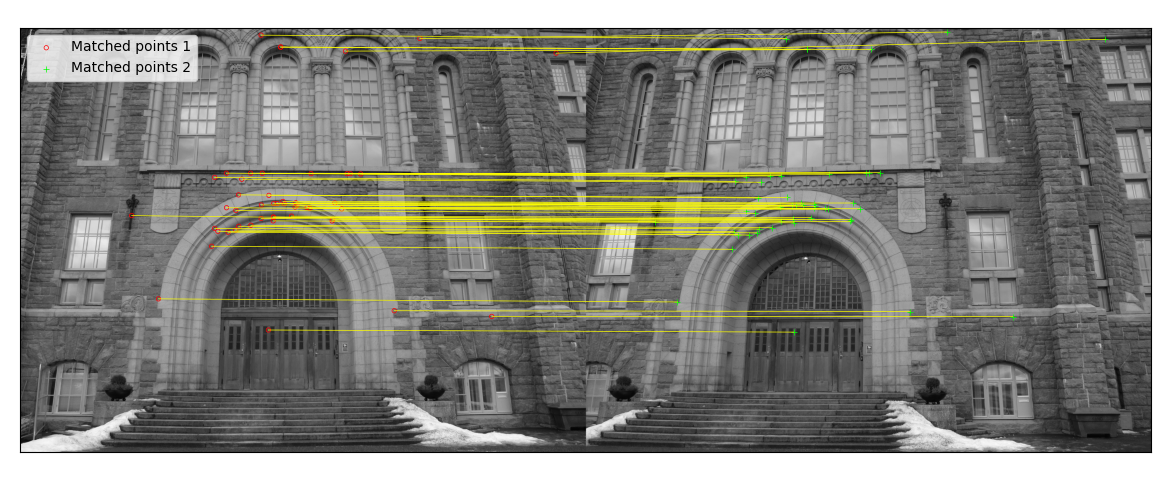
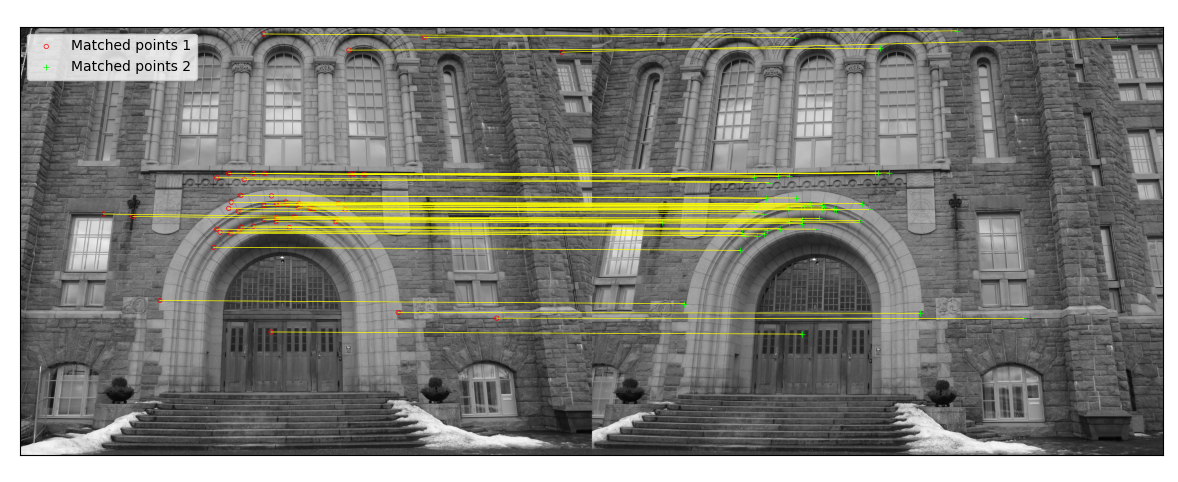
Fix task 2.1a and start 3.1

diff --git a/python/task3_1.py b/python/task3_1.py
@@ -1,0 +1,39 @@
+import matplotlib.pyplot as plt
+import numpy as np
+import cv2 as cv
+from matlab_inspired_interface import match_features, show_matched_features
+from hw5.estimate_E_ransac import estimate_E_ransac,get_num_ransac_trials
+from hw5.F_from_E import F_from_E
+from hw5.figures import draw_correspondences, draw_point_cloud
+from hw5.estimate_E import estimate_E
+from hw5.decompose_E import decompose_E
+from hw5.triangulate_many import triangulate_many
+
+from os.path import join
+
+I = cv.imread('../data_hw5_ext/IMG_8209.jpg', cv.IMREAD_GRAYSCALE)
+model_points = np.loadtxt("3D_points.txt").T
+model_desc = np.loadtxt("descriptors.txt")
+
+folder = '../data_hw5_ext/calibration'
+
+K  = np.loadtxt(join(folder, 'K.txt'))
+
+
+def localize_camera():
+
+    sift = cv.SIFT_create(nfeatures=30000, sigma=1.6, nOctaveLayers=3, edgeThreshold=12, contrastThreshold=0.04)
+    kp, desc = sift.detectAndCompute(I, None)
+    kp = np.array([kp_i.pt for kp_i in kp])
+
+    index_pairs, match_metric = match_features(desc, model_desc, max_ratio=0.85, unique=True)
+    index_pairs = index_pairs[np.argsort(match_metric)]
+
+    desc_matched = desc[index_pairs[:,0]]
+    model_desc_matched = model_desc[index_pairs[:,1]]
+    
+    kp_matched = kp[index_pairs[:,0]]
+    model_points_matched = model_points[index_pairs[:,1]]
+  
+
+localize_camera()

diff --git a/python/match_feaures.py b/python/match_feaures.py
@@ -24,7 +24,7 @@ def task2_1_a():
     # NB! This script uses a very small number of features so that it runs quickly.
     # You will want to pass other options to SIFT_create. See the documentation:
     # https://docs.opencv.org/4.x/d7/d60/classcv_1_1SIFT.html
-    sift = cv.SIFT_create(nfeatures=30000)
+    sift = cv.SIFT_create(nfeatures=30000, sigma=1.6, nOctaveLayers=3, edgeThreshold=12, contrastThreshold=0.04)
     kp1, desc1 = sift.detectAndCompute(I1, None)
     kp2, desc2 = sift.detectAndCompute(I2, None)
     kp1 = np.array([kp.pt for kp in kp1])
@@ -32,7 +32,7 @@ def task2_1_a():
 
     # NB! You will want to experiment with different options for the ratio test and
     # "unique" (cross-check).
-    index_pairs, match_metric = match_features(desc1, desc2, max_ratio=1, unique=True)
+    index_pairs, match_metric = match_features(desc1, desc2, max_ratio=0.85, unique=True)
     print(index_pairs[:10])
     print('Found %d matches' % index_pairs.shape[0])
 
@@ -120,4 +120,4 @@ def task2_1_d():
     draw_point_cloud(X, I1_RGB, uv1, xlim=[-3,+3], ylim=[-3,+1], zlim=[1,5])
     plt.show()
 
-task2_1_d()
+task2_1_a()
